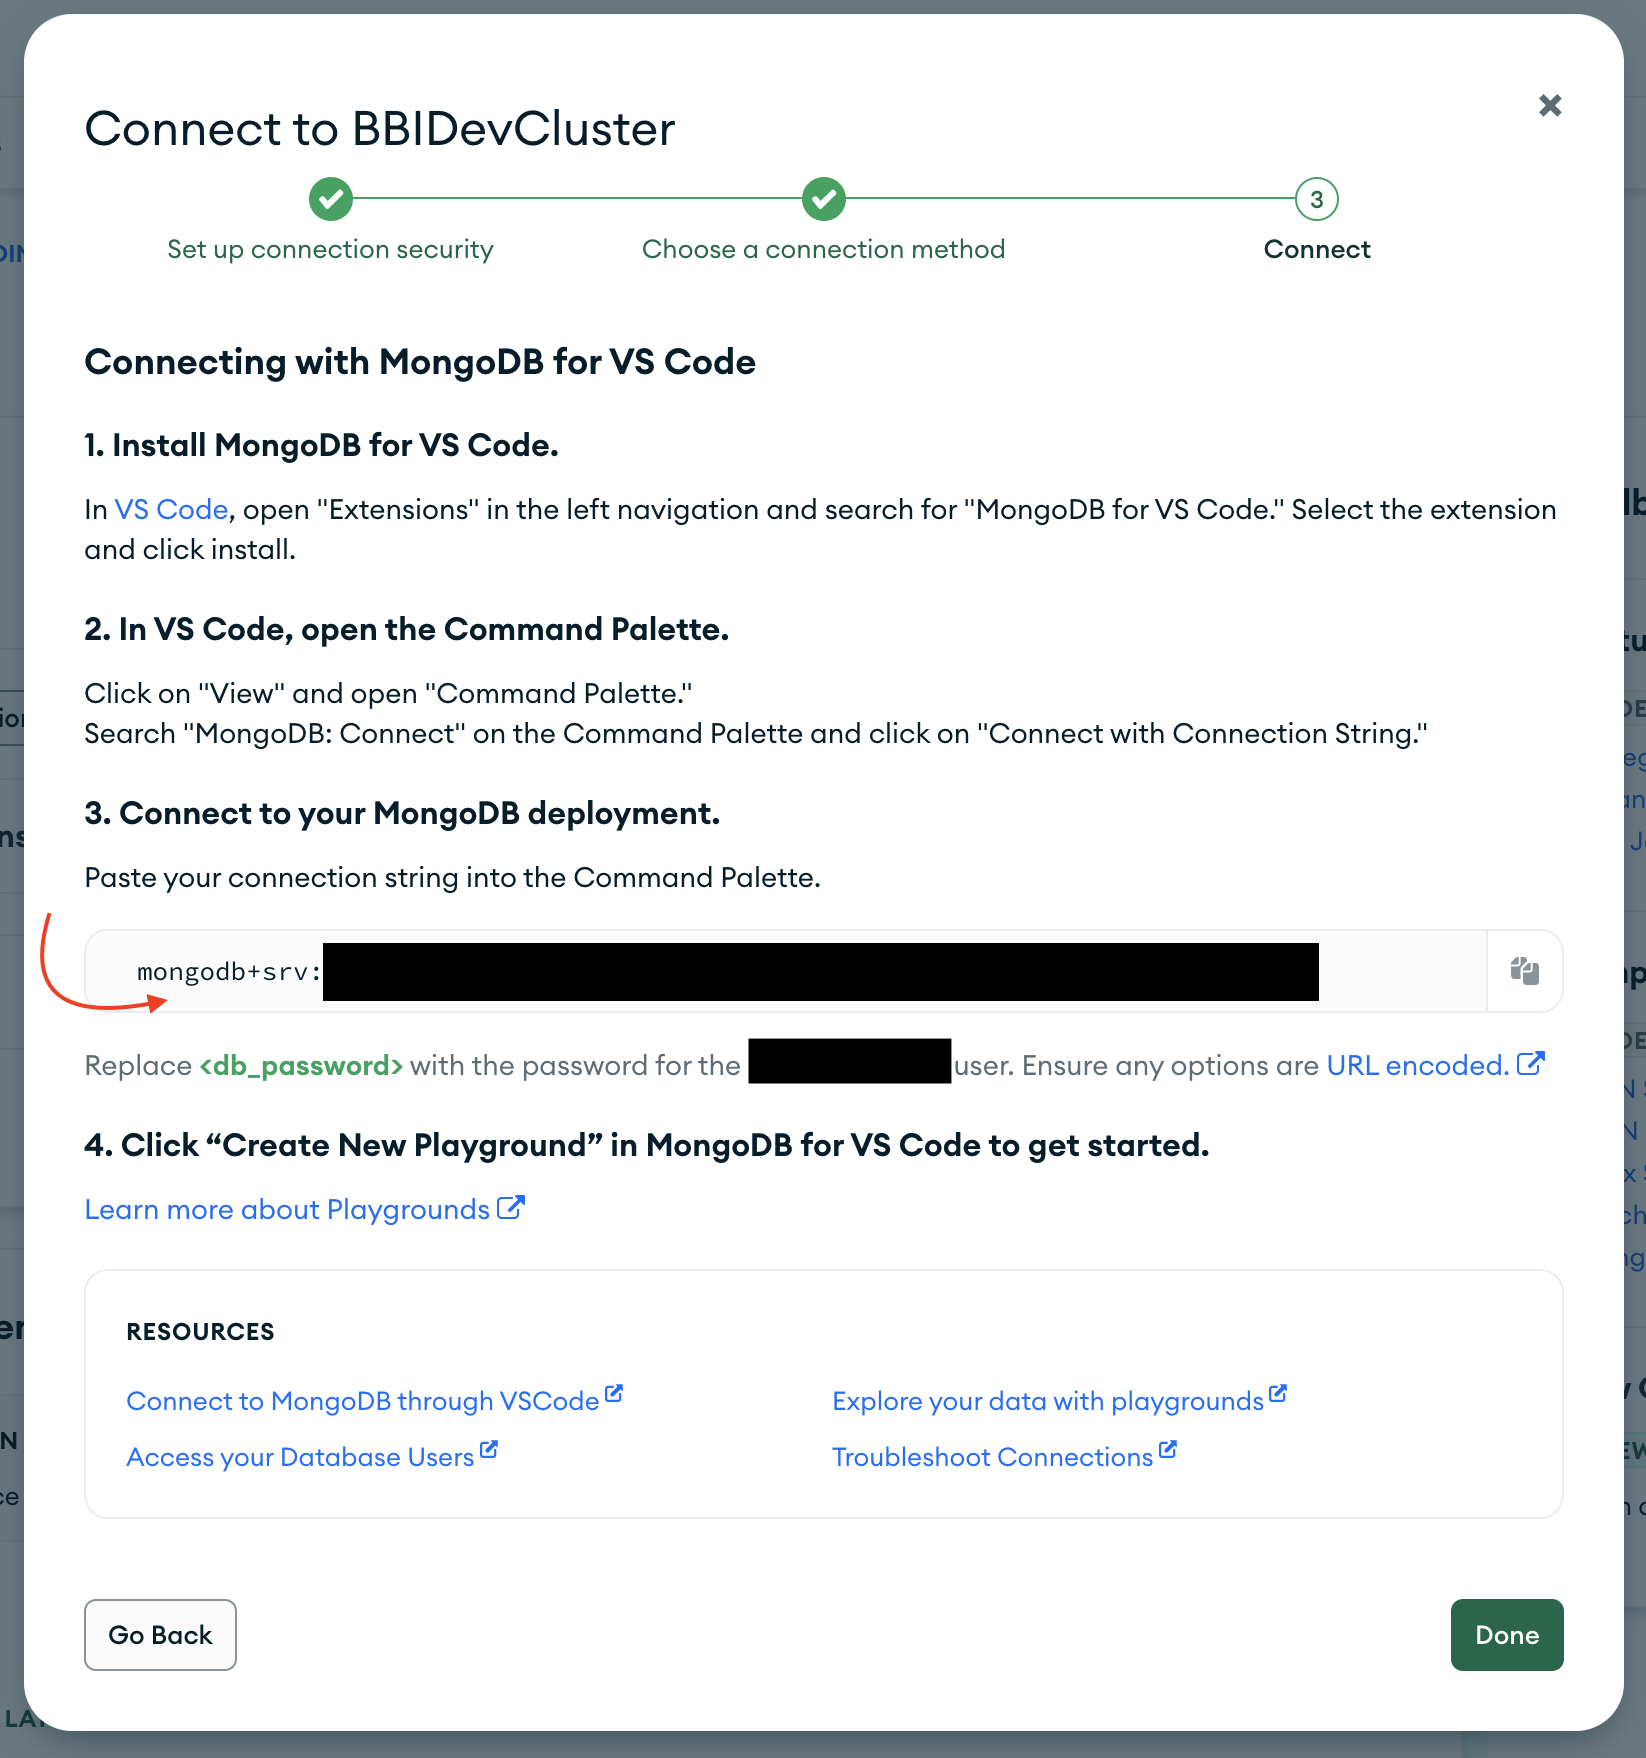
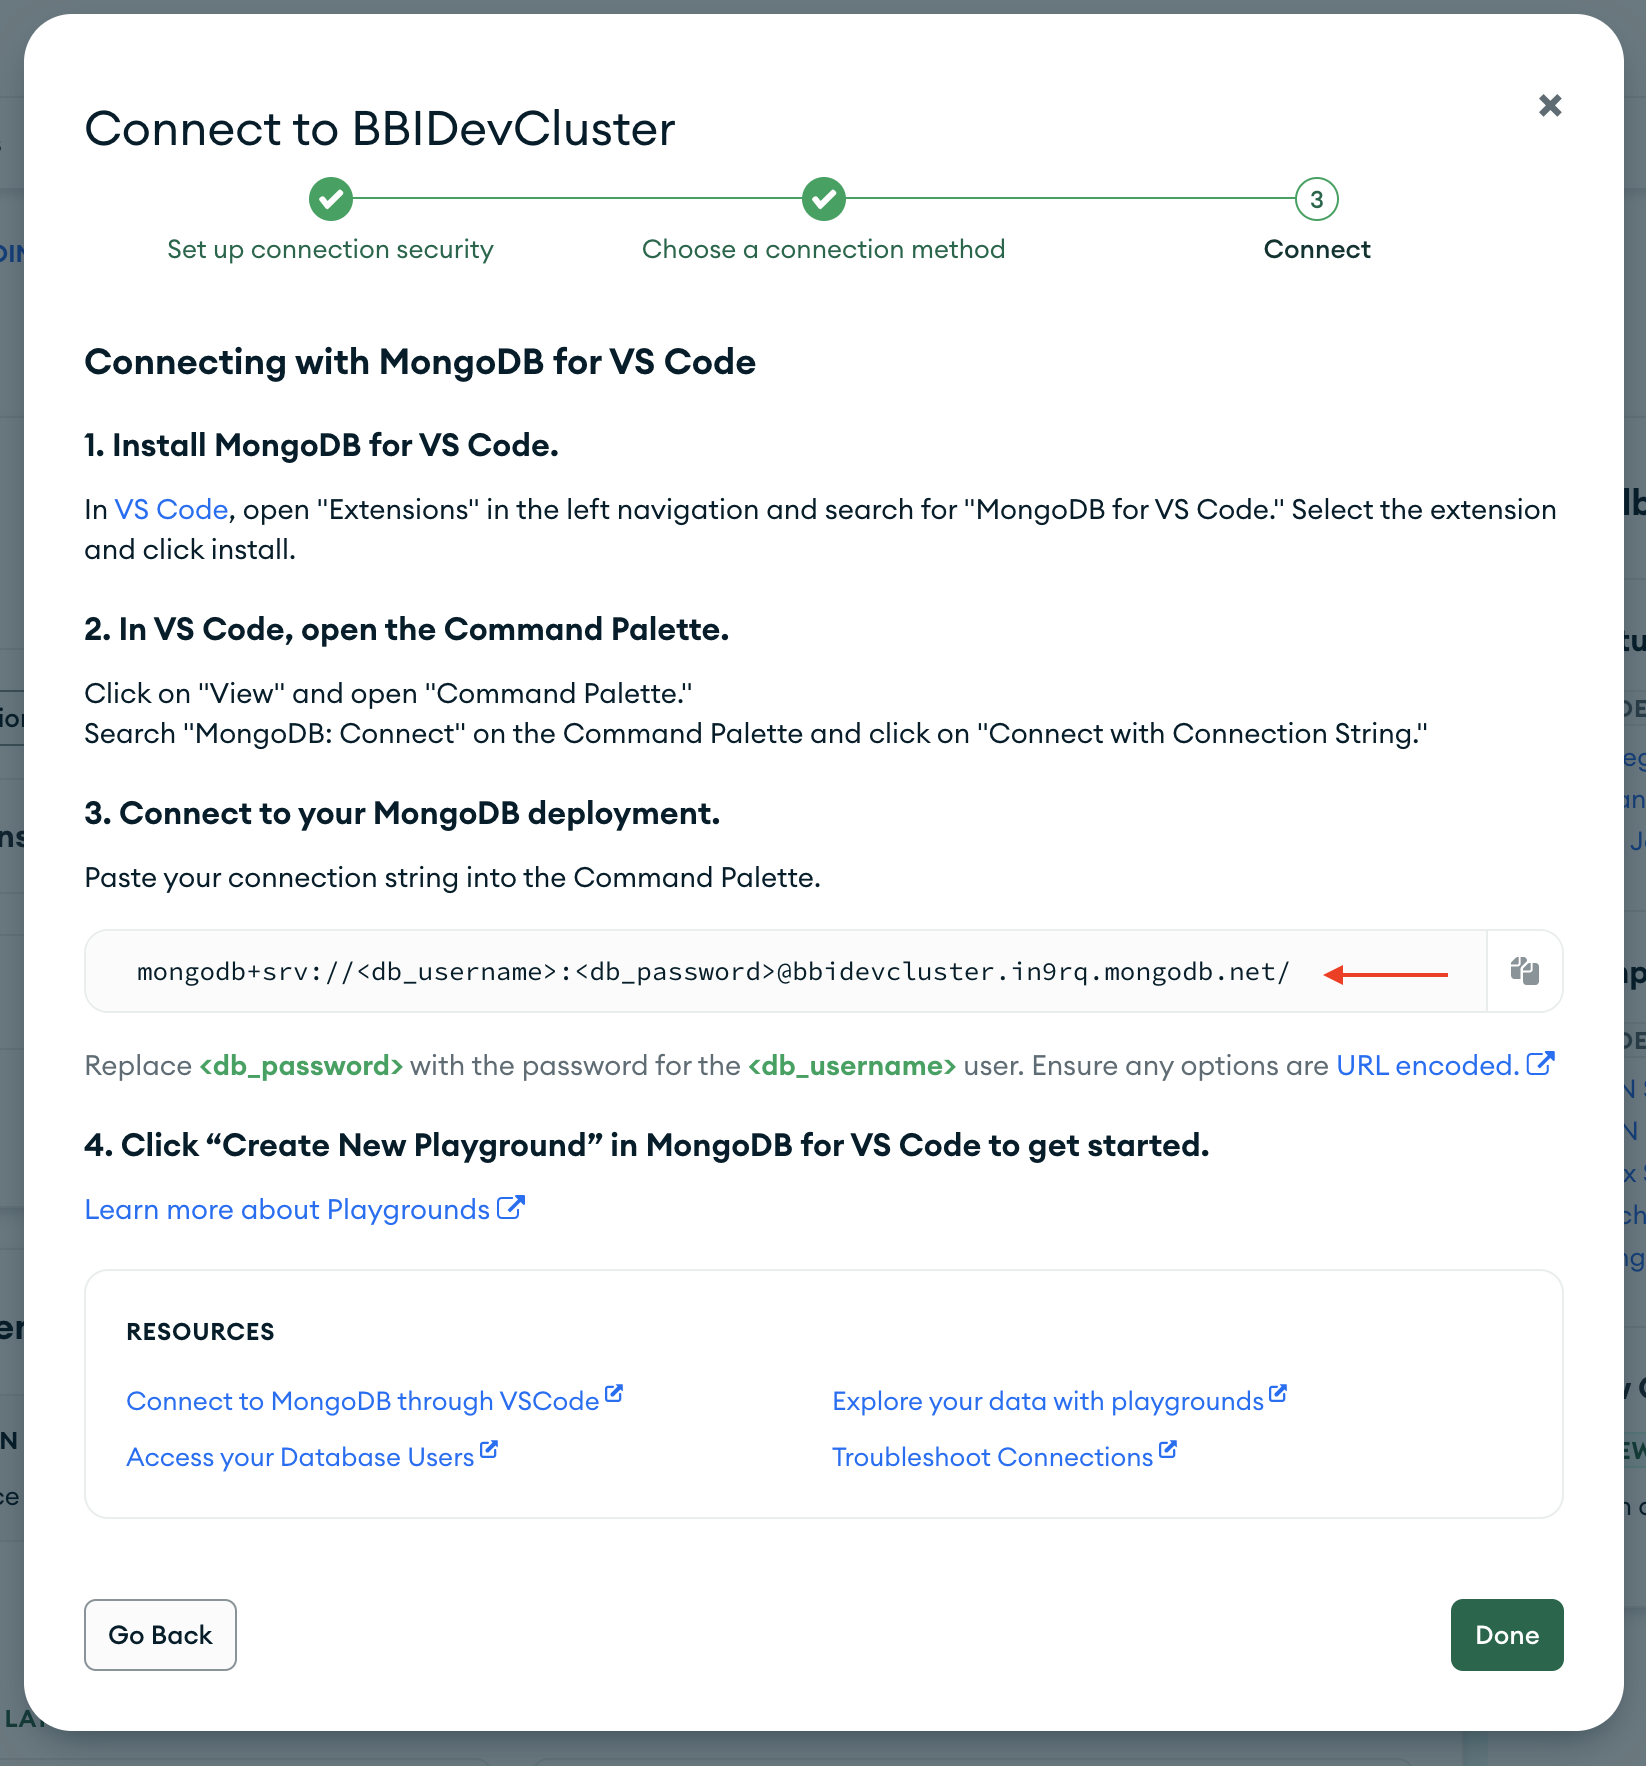
update README with new db connection details

diff --git a/llm_bioinformatics_research/README.md b/llm_bioinformatics_research/README.md
@@ -71,26 +71,28 @@ This section has moved here: [https://facebook.github.io/create-react-app/docs/t
 
 ## Connecting to MongoDB Database
 
-1. Login to MongoDB
+Note: users must request database admin for access
 
-2. Navigate to the "Better Bioinformatics" project
+1. Login to MongoDB.
+
+2. Navigate to the "Better Bioinformatics" project.
 
 ![alt text](<documentation_images/project.png>)
 
-3. Click the "Connect" button located under the BBIDevCluster
+3. Click the "Connect" button located under the BBIDevCluster.
 
 ![alt text](<documentation_images/connect.png>)
 
-4. In the menu, select "MongoDB for VS Code"
+4. In the menu, select "MongoDB for VS Code".
 
 ![alt text](<documentation_images/mongodb_vscode.png>)
 
-5. Copy the connection string located under "Connect to your MongoDB deployment"
+5. Copy the connection string located under "Connect to your MongoDB deployment".
 
 ![alt text](<documentation_images/connection_string.png>)
 
-6. Create a .env file in the root directory of the React project
+6. Create a .env file in the root directory of the React project.
 
-7. Save the connection sting in the variable "MONGO_URI"
+7. Save the connection sting in the variable "MONGO_URI". Replace `<db_username>` and `<db_password>` with the username and password provided to you by a database admin. 
 
 ![alt text](<documentation_images/env.png>)
